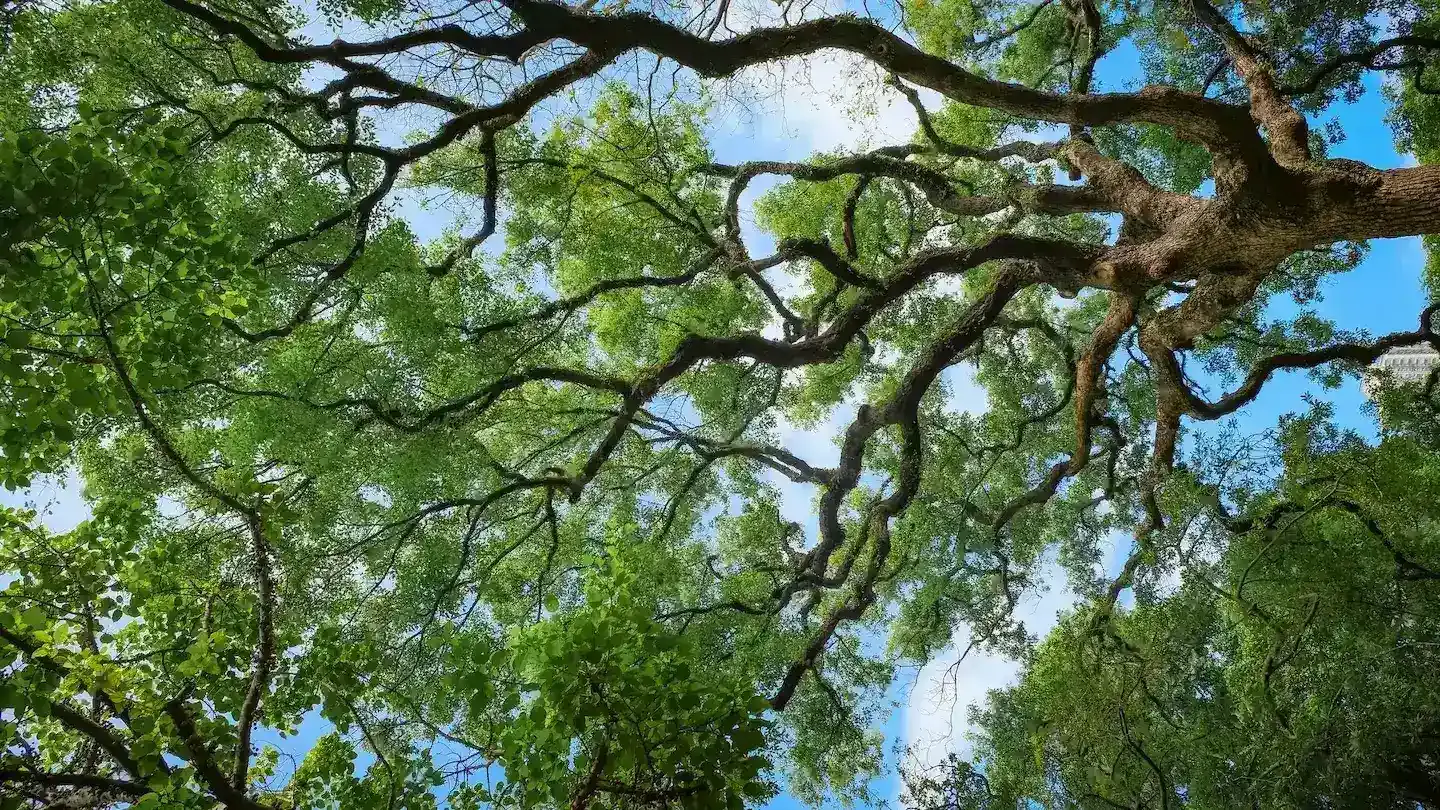
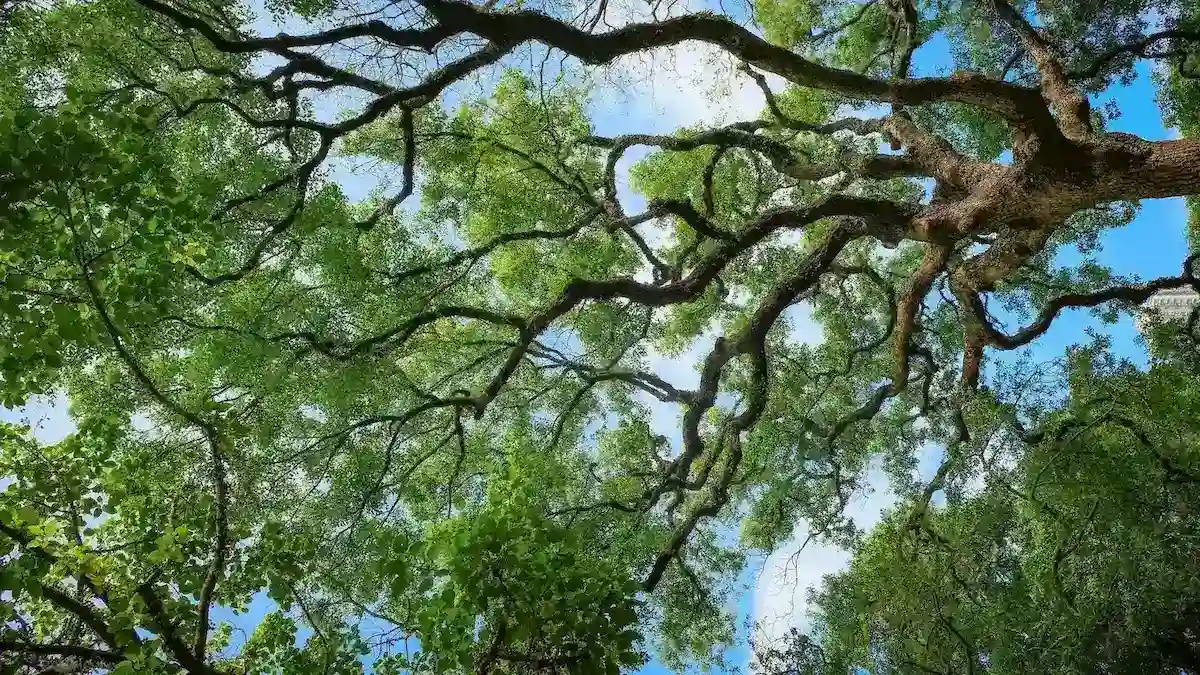
hero img

Changed region(s): [[0.0, 0.0, 1.0, 1.0], [0.5858, 0.0622, 0.6475, 0.1556], [0.9867, 0.9956, 1.0, 1.0]]

diff --git a/frontend/src/components/home/HeroImageStack.jsx b/frontend/src/components/home/HeroImageStack.jsx
@@ -57,7 +57,7 @@ const HeroImageStack = () => {
               height={1080}
               sizes="100vw"
               tabIndex={-1}
-              className="absolute inset-0 w-full h-full object-cover cursor-pointer transition-all duration-700 ease-out"
+              className="absolute inset-0 w-full h-full object-cover cursor-pointer transition-[transform,opacity] duration-700 ease-out"
               style={{
                 transform: `translateX(${offset * translateStep}%) translateZ(${-Math.abs(offset) * depthStep}px) rotateY(${offset * rotateStep}deg) scale(${1 - Math.abs(offset) * scaleStep})`,
                 opacity: Math.abs(offset) > 1 ? 0 : 1 - Math.abs(offset) * 0.35,
